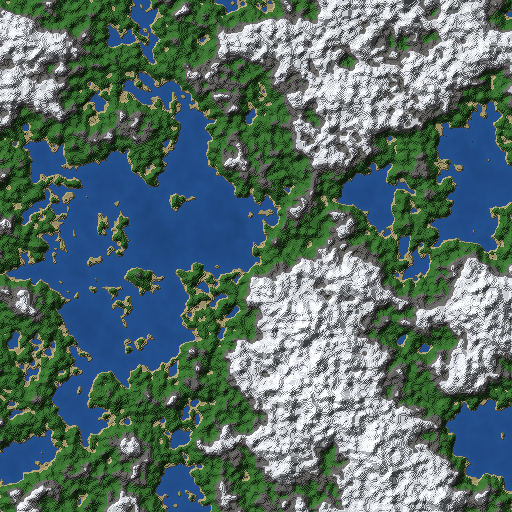
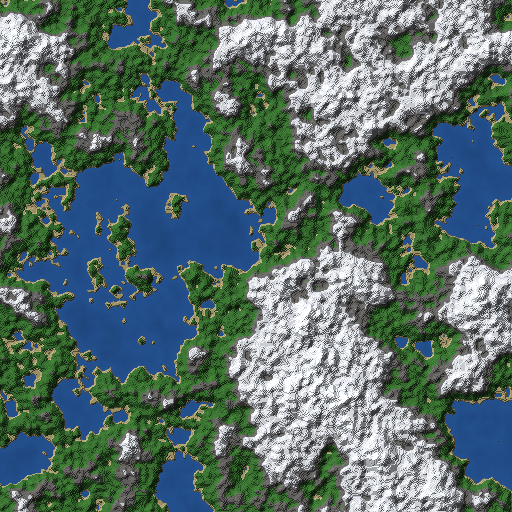
fix(world): throttle w rebuilds, and fix the race that hid it
Two bugs, found by the terrain not visibly moving.

The visible one: holding the travel key changed 19% of columns by at most
ONE BLOCK per second. Technically continuous, visually nothing - which is
what "nothing is happening" meant.

The cause was reasoning about half the problem. Travel speed and field
scale multiply to give the felt rate, and only one of them is free. A
rebuild re-requests every chunk in the window, so travel speed sets the
rebuild rate and the pool caps it near 0.43 units/sec. kWScale costs
nothing: it changes how different each rebuild looks, not how many there
are. Having bounded the speed correctly, I never checked what the product
looked like. Measured:

    kWScale   per rebuild (0.12w)   per second walking (0.4w)
       1       5.3%,  jump 1         19.4%,  jump 1
       4      23.7%,  jump 1         62.0%,  jump 3
       6      35.3%,  jump 2         73.9%,  jump 5
      10      52.6%,  jump 3         83.5%,  jump 7

kWScale is 6. A second of travel reshapes 74% of the landscape while a
single rebuild moves nothing more than two blocks, so it flows rather
than steps. This is where the constant started, and neither change to it
was wrong about what it measured: the sweep that lowered it to 1 was
right that the field moves 51% per WORLD UNIT, and I missed that the
player only covers 0.4 of one per second.

The second bug: holding the key submitted a whole window of jobs every
[…]

diff --git a/src/world/terrain_gen4d.h b/src/world/terrain_gen4d.h
@@ -54,42 +54,50 @@ private:
 
 // How much noise-space one unit of movement along w covers.
 //
-// One. The fourth axis is scaled exactly like x and z, and getting back
-// to that took a mistake and an adversarial review to undo.
+// Six. This constant has now been 6, then 1, then 6 again, and the round
+// trip is worth recording because both changes were right about what they
+// measured and the first two were measuring the wrong thing.
 //
-// This constant was 6, justified by a measurement showing that at scale 1
-// a step along w changed 4.6% of columns by at most one block - "the
-// world was frozen along the fourth axis". That measurement was real, and
-// it was taken against a height amplitude of 28. The amplitude was then
-// refitted to 126 (see kHeightAmplitude) and this table was never
-// re-measured, so both the header and docs/4d.md carried numbers
-// describing constants the generator no longer used.
+// It was 6, justified by a sweep showing that at scale 1 a step along w
+// changed 4.6% of columns by at most one block. That sweep was taken
+// against a height amplitude of 28, and when the amplitude was refitted
+// to 126 nobody re-measured, so the justification described a generator
+// that no longer existed. Re-measured, scale 1 changes 51.2% of columns
+// per world unit of w - not frozen at all - so it went to 1.
 //
-// Re-measured against the shipped generator, one world unit per slice:
+// That was correct about the FIELD and wrong about the ENGINE, because
+// the field scale and the player's travel speed multiply, and only one
+// of them is free.
 //
-//     scale   columns changed per step   max column jump
-//       1              51.2%                     4
-//       3              80.0%                    10
-//       6              88.1%                    18
-//      12              92.1%                    26
-//      25              94.4%                    35
-//      60              96.3%                    46
+// A rebuild re-requests every chunk in the window, so how often the world
+// is rebuilt is set by travel speed alone: at kSliceRemeshStep the player
+// crosses a rebuild every step/speed seconds, and the worker pool caps
+// that at roughly three per second. Travel speed is therefore expensive
+// and bounded at about 0.4 units/sec. kWScale costs nothing - it changes
+// how DIFFERENT each rebuild looks, not how many there are.
 //
-// Scale 1 was never frozen once the amplitude was right. It moves half
-// the columns by up to four blocks against a ~45-block height range,
-// which is exactly the "recognisably the same place, visibly shifted"
-// behaviour the scaling was introduced to produce. The scaling was
-// compensating for the amplitude, not for anything about the fourth
-// dimension - the amplitude is 4.5x larger now, and 4.5 * 1 block is the
-// 4-block jump scale 1 produces.
+// So the visual rate has to be bought with kWScale, and at scale 1 with a
+// walk of 0.4 units/sec the result was 19% of columns moving by one block
+// per second: technically continuous, visually nothing. Measured across
+// the scale, per rebuild and per second of walking:
 //
-// The old comment also claimed the max jump "stays in single digits at
-// every scale, so the field is continuous along w regardless". That was
-// false in its own table (scale 60 read 11) and is far more false here.
-// Continuity along w is real, and it is established by
-// test_adjacent_slices_are_related_not_unrelated rather than by a jump
-// count that grows with the scale.
-inline constexpr float kWScale = 1.0f;
+//     scale   per rebuild (0.12w)   per second walking (0.4w)
+//       1      5.3%,  max jump 1     19.4%,  max jump 1
+//       2     11.9%,  max jump 1     38.8%,  max jump 2
+//       4     23.7%,  max jump 1     62.0%,  max jump 3
+//       6     35.3%,  max jump 2     73.9%,  max jump 5
+//      10     52.6%,  max jump 3     83.5%,  max jump 7
+//
+// 6 is where a second of travel visibly reshapes the landscape (74% of
+// columns, five blocks at the extreme) while a single rebuild still moves
+// nothing by more than two blocks, so the terrain flows rather than
+// stepping. 10 makes each rebuild a visible jolt; 1 and 2 are invisible
+// while walking.
+//
+// The continuity of the field along w does not depend on this at all -
+// that is established by test_adjacent_slices_are_related_not_unrelated,
+// and it holds at every scale in the table.
+inline constexpr float kWScale = 6.0f;
 
 // Height amplitude and offset, fitted to this noise rather than inherited.
 // The 3D generator's `kSeaLevel + n * 28 + 14` put every column between

diff --git a/src/main.cpp b/src/main.cpp
@@ -1120,11 +1120,28 @@ int main(int argc, char** argv) {
             auto settle = [&]() {
                 // Drain until every re-requested chunk has landed and the
                 // boundary re-meshes owed to it are flushed.
-                for (int guard = 0; guard < 100000; ++guard) {
+                //
+                // Bounded by TIME, not by iteration count. The first
+                // version guarded with `for (guard < 100000)`, which is a
+                // spin count: the loop body is a few microseconds when
+                // there is nothing to drain, so it burned through all
+                // 100,000 iterations in milliseconds and returned while
+                // workers were still busy. The hash was then taken on a
+                // half-rebuilt world, and whether the check passed
+                // depended on how much unrelated work happened to run
+                // first - adding a debug print "fixed" it.
+                //
+                // Yielding matters as much as the deadline: the drain is
+                // main-thread work waiting on nine workers, and spinning
+                // without yielding steals the core they need.
+                const auto deadline = std::chrono::steady_clock::now() +
+                                      std::chrono::seconds(60);
+                while (std::chrono::steady_clock::now() < deadline) {
                     wrld.drain_finished(256);
                     wrld.flush_pending_remeshes(pool, 256);
                     if (wrld.pending_async() == 0 &&
                         wrld.pending_remesh() == 0) break;
+                    std::this_thread::yield();
                 }
             };
             auto world_hash = [&wrld]() {
@@ -1149,20 +1166,37 @@ int main(int argc, char** argv) {
                 return h;
             };
 
+            // Travels to a target w and drives the rebuild until the
+            // geometry has caught up.
+            //
+            // move_w declines a rebuild while the previous one is still
+            // draining - that throttle is what stops a held key from
+            // saturating the pool with work it will discard - so a check
+            // that assumed one call rebuilds would be testing an engine
+            // that does not exist. This drives it the way the render loop
+            // does, without waiting for frames.
+            auto travel_to = [&](float target) {
+                wrld.move_w(target - wrld.slice_w(), terrain, pool);
+                for (int guard = 0; guard < 1000; ++guard) {
+                    settle();
+                    if (std::fabs(wrld.meshed_w() - wrld.slice_w()) < 1e-4f) break;
+                    wrld.resample_slice(terrain, pool);
+                }
+            };
+
             const float w0 = wrld.slice_w();
             const std::uint64_t hash_w0 = world_hash();
             const int bad_w0 = wrld.debug_validate_gpu_meshes();
 
             const auto step_t0 = std::chrono::steady_clock::now();
             const int requested = wrld.move_w(+1.0f, terrain, pool);
-            settle();
+            travel_to(w0 + 1.0f);
             const double step_ms = std::chrono::duration<double, std::milli>(
                 std::chrono::steady_clock::now() - step_t0).count();
             const std::uint64_t hash_w1 = world_hash();
             const int bad_w1 = wrld.debug_validate_gpu_meshes();
 
-            wrld.move_w(-1.0f, terrain, pool);
-            settle();
+            travel_to(w0);
             const std::uint64_t hash_back = world_hash();
             const int bad_back = wrld.debug_validate_gpu_meshes();
 
@@ -1179,7 +1213,7 @@ int main(int argc, char** argv) {
             // covering, not because it isolates a guard.
             for (int i = 0; i < 3; ++i) wrld.move_w(+1.0f, terrain, pool);
             for (int i = 0; i < 3; ++i) wrld.move_w(-1.0f, terrain, pool);
-            settle();
+            travel_to(w0);
             const std::uint64_t hash_rapid = world_hash();
             const int bad_rapid = wrld.debug_validate_gpu_meshes();
 

diff --git a/src/world/world.cpp b/src/world/world.cpp
@@ -362,6 +362,25 @@ int World::move_w(float delta, const TerrainGen& terrain,
 
 int World::resample_slice(const TerrainGen& terrain, core::ThreadPool& pool) {
     if (!slice_gen_) return 0;
+
+    // One rebuild at a time.
+    //
+    // Without this, holding the travel key submits a whole window of jobs
+    // every time the player crosses the threshold - about three times a
+    // second - while the previous window is still sitting in the pool.
+    // The old jobs are not cancellable, so they run to completion and are
+    // then discarded on arrival for having a stale request stamp. The
+    // pool ends up saturated with work whose results are thrown away, and
+    // the geometry falls further behind the longer the key is held: the
+    // faster you travel, the less the world updates.
+    //
+    // Declining instead leaves meshed_w_ where it is, so move_w simply
+    // tries again on the next frame and the rebuild rate self-limits to
+    // whatever the pool can actually sustain. The player keeps moving at
+    // full speed; the geometry lags by however far they travelled during
+    // one rebuild, which the HUD shows.
+    if (jobs_in_flight_.load() > 0) return 0;
+
     meshed_w_ = slice_w_;
 
     // Every chunk in the world is now wrong: moving along w changes the
